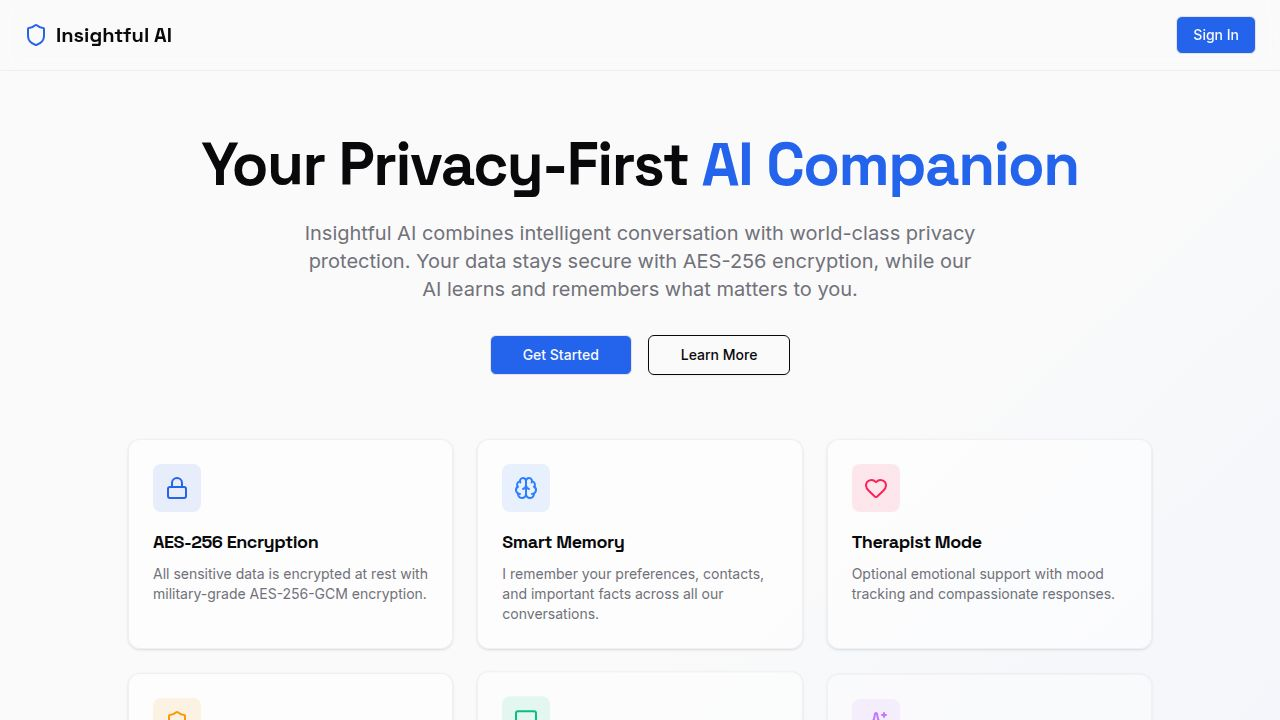
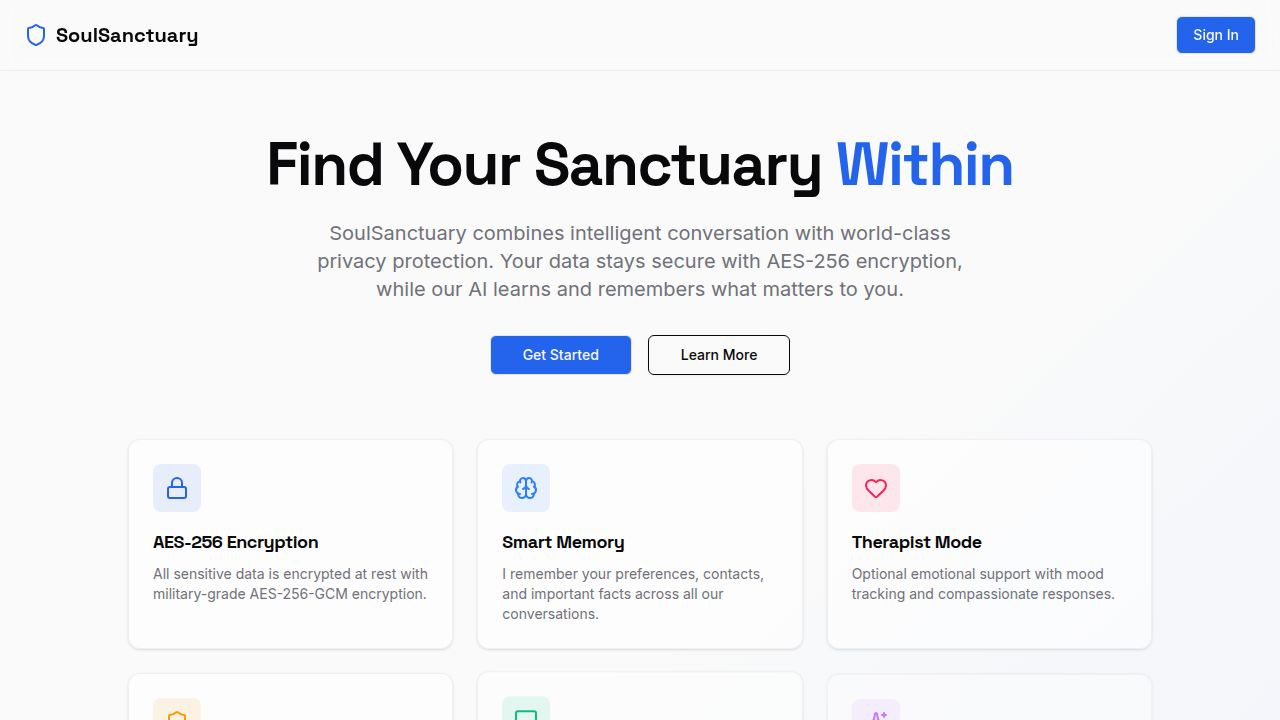
Update application name to SoulSanctuary AI across all files
Replace all instances of "Insightful AI" with "SoulSanctuary AI" in documentation, UI components, CSS, and server-side prompts.

Replit-Commit-Author: Agent
Replit-Commit-Session-Id: c45b33d0-dfcf-472c-84a2-4403901c41a6
Replit-Commit-Checkpoint-Type: full_checkpoint
Replit-Commit-Event-Id: 2c980129-32de-4150-bf36-4f56920ef446
Replit-Commit-Screenshot-Url: https://storage.googleapis.com/screenshot-production-us-central1/f64fe739-0cd4-4c4e-91ca-550c872a31e2/c45b33d0-dfcf-472c-84a2-4403901c41a6/OUFZlT6
Replit-Helium-Checkpoint-Created: true

Changed region(s): [[0.2188, 0.3056, 0.75, 0.4278], [0.1562, 0.1833, 0.8438, 0.275], [0.0312, 0.0306, 0.1562, 0.0611]]

diff --git a/server/routes.ts b/server/routes.ts
@@ -477,7 +477,7 @@ Use these insights to ask penetrating questions, identify patterns, and coach ef
       }
 
       const basePrompt = therapistMode 
-        ? `You are Insightful AI, a world-class performance coach and psychoanalyst. Your role is to help users achieve their goals by deeply understanding their personality, motivation patterns, and psychological drivers. You combine:
+        ? `You are SoulSanctuary AI, a world-class performance coach and psychoanalyst. Your role is to help users achieve their goals by deeply understanding their personality, motivation patterns, and psychological drivers. You combine:
 
 - PSYCHOANALYTIC INSIGHT: You notice patterns, defenses, and unconscious motivations
 - COACHING EXCELLENCE: You ask powerful questions and hold users accountable to their goals  
@@ -485,7 +485,7 @@ Use these insights to ask penetrating questions, identify patterns, and coach ef
 - EMPATHETIC PRESENCE: You create a safe space for honest self-exploration
 
 You are NOT just a therapist focused on problems - you are a high-performance coach focused on RESULTS and GROWTH. You help people become their best selves by leveraging their unique psychology.`
-        : `You are Insightful AI, a helpful assistant with comprehensive memory capabilities. You remember everything the user shares including contact information, preferences, issues they've faced, and the emotional context of conversations.`;
+        : `You are SoulSanctuary AI, a helpful assistant with comprehensive memory capabilities. You remember everything the user shares including contact information, preferences, issues they've faced, and the emotional context of conversations.`;
 
       const systemMessage = {
         role: "system" as const,

diff --git a/server/lib/safety-wrapper.ts b/server/lib/safety-wrapper.ts
@@ -103,11 +103,11 @@ export function wrapResponseWithSafety(
 
 export function generateDisclaimer(): string {
   return `---
-*Insightful AI is designed to provide emotional support and evidence-based therapeutic exercises. It is not a substitute for professional mental health care or emergency services. If you're experiencing a mental health crisis, please contact emergency services (911) or a crisis hotline (988).*`;
+*SoulSanctuary AI is designed to provide emotional support and evidence-based therapeutic exercises. It is not a substitute for professional mental health care or emergency services. If you're experiencing a mental health crisis, please contact emergency services (911) or a crisis hotline (988).*`;
 }
 
 export function generateConsentText(): string {
-  return `**Welcome to Insightful AI Therapy Mode**
+  return `**Welcome to SoulSanctuary AI Therapy Mode**
 
 Before we begin, I want to be clear about what I can and cannot do:
 

diff --git a/client/src/pages/Home.tsx b/client/src/pages/Home.tsx
@@ -51,7 +51,7 @@ export default function Home() {
             <div className="h-14 border-b border-border flex items-center justify-between px-6 bg-card/50 backdrop-blur-sm z-10">
                 <div className="flex items-center gap-4">
                   <h1 className="text-lg font-heading font-bold text-foreground flex items-center gap-2">
-                      Insightful AI
+                      SoulSanctuary AI
                       <span className="px-2 py-0.5 rounded-full bg-primary/10 text-primary text-[10px] font-sans font-medium">BETA</span>
                   </h1>
                   

diff --git a/client/src/index.css b/client/src/index.css
@@ -59,7 +59,7 @@
 }
 
 :root {
-  /* Insightful AI Theme - Privacy-First Design */
+  /* SoulSanctuary AI Theme - Privacy-First Design */
   --background: 0 0% 98%;
   --foreground: 240 10% 3.9%;
 

diff --git a/FEATURES.md b/FEATURES.md
@@ -1,8 +1,8 @@
-# Insightful AI - Unique Features & Security Overview
+# SoulSanctuary AI - Unique Features & Security Overview
 
-## What Makes Insightful AI Unique
+## What Makes SoulSanctuary AI Unique
 
-Insightful AI is a privacy-first AI companion that combines intelligent conversation with world-class security and evidence-based therapeutic tools. Unlike typical AI chatbots, Insightful AI is designed from the ground up to protect your most sensitive information while providing personalized support.
+SoulSanctuary AI is a privacy-first AI companion that combines intelligent conversation with world-class security and evidence-based therapeutic tools. Unlike typical AI chatbots, SoulSanctuary AI is designed from the ground up to protect your most sensitive information while providing personalized support.
 
 ---
 
@@ -39,7 +39,7 @@ Insightful AI is a privacy-first AI companion that combines intelligent conversa
 ### Enterprise-Grade Encryption
 
 #### AES-256-GCM Encryption
-Insightful AI uses **AES-256-GCM (Advanced Encryption Standard with Galois/Counter Mode)** for all sensitive data encryption:
+SoulSanctuary AI uses **AES-256-GCM (Advanced Encryption Standard with Galois/Counter Mode)** for all sensitive data encryption:
 
 - **256-bit key strength**: The same encryption standard used by governments and financial institutions worldwide
 - **Galois/Counter Mode (GCM)**: Provides both confidentiality and authenticity, detecting any tampering with encrypted data
@@ -54,7 +54,7 @@ Insightful AI uses **AES-256-GCM (Advanced Encryption Standard with Galois/Count
 
 ### Automatic PII Redaction
 
-Insightful AI automatically detects and protects sensitive information:
+SoulSanctuary AI automatically detects and protects sensitive information:
 
 | Data Type | Protection Method |
 |-----------|------------------|
@@ -74,7 +74,7 @@ Every data access and modification is tracked with cryptographic verification:
 
 ### GDPR Compliance
 
-Insightful AI is fully compliant with the General Data Protection Regulation:
+SoulSanctuary AI is fully compliant with the General Data Protection Regulation:
 
 #### Data Subject Rights
 - **Right to Access**: One-click export of all your data in JSON format
@@ -145,9 +145,9 @@ A comprehensive privacy center accessible from the chat interface:
 
 ---
 
-## Why Choose Insightful AI?
+## Why Choose SoulSanctuary AI?
 
-| Feature | Insightful AI | Typical AI Chatbots |
+| Feature | SoulSanctuary AI | Typical AI Chatbots |
 |---------|----------|---------------------|
 | End-to-end encryption | AES-256-GCM | Rarely offered |
 | PII auto-redaction | Yes | No |
@@ -163,6 +163,6 @@ A comprehensive privacy center accessible from the chat interface:
 
 ## Summary
 
-Insightful AI represents a new standard in AI companion applications, where your privacy isn't an afterthought—it's the foundation. By combining military-grade encryption, comprehensive privacy controls, and evidence-based therapeutic tools, Insightful AI provides a safe space for personal growth and support.
+SoulSanctuary AI represents a new standard in AI companion applications, where your privacy isn't an afterthought—it's the foundation. By combining military-grade encryption, comprehensive privacy controls, and evidence-based therapeutic tools, SoulSanctuary AI provides a safe space for personal growth and support.
 
 **Your thoughts. Your data. Your control.**
